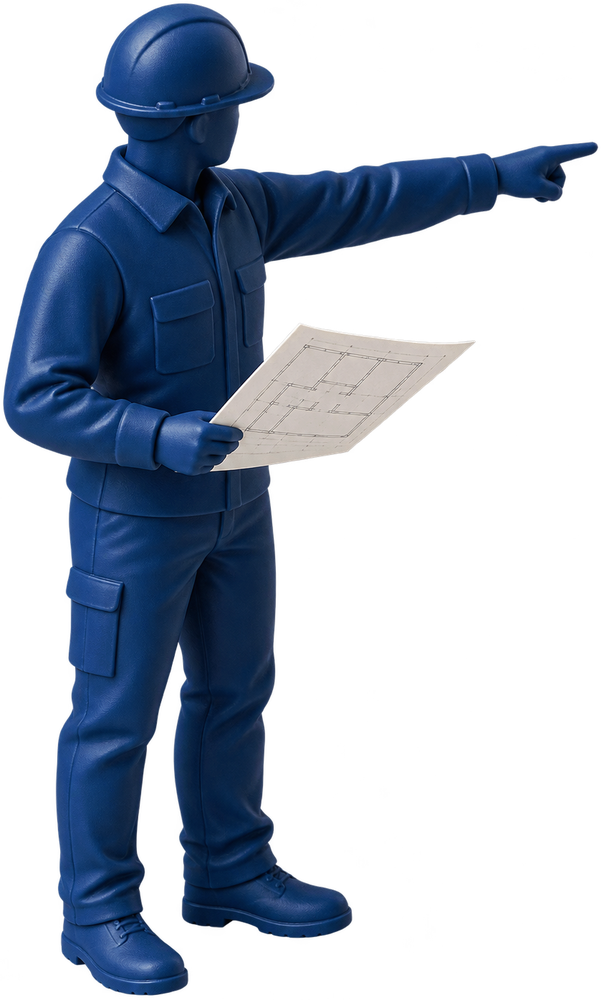
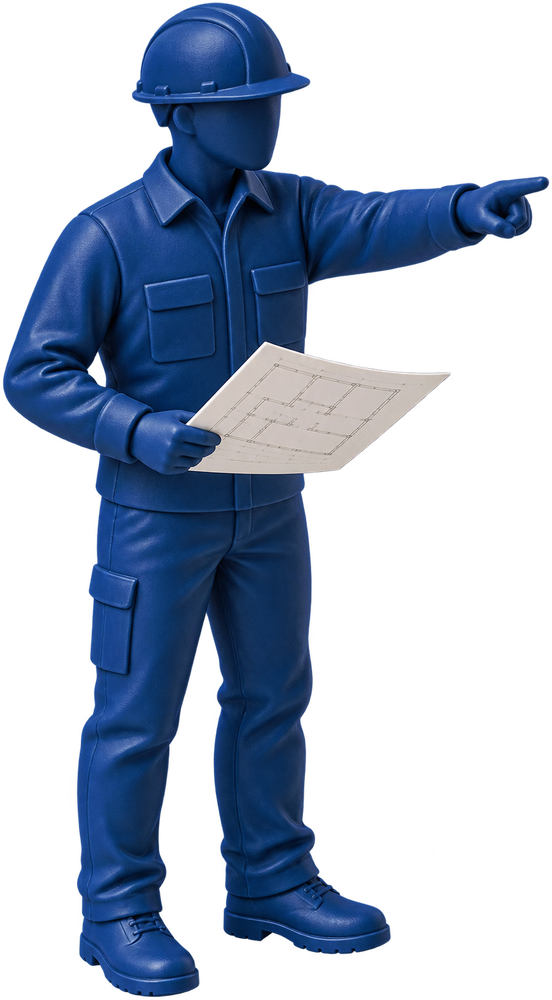
Soften hero arch and turn supervisor toward viewer

diff --git a/css/hex_pc.css b/css/hex_pc.css
@@ -4894,7 +4894,7 @@ html body
   max-width:none;
 }
 .hex-hero-character--family{--hex-sprite-x:33%;--hex-sprite-bottom:23%;--hex-sprite-width:8.8%;}
-.hex-hero-character--supervisor{--hex-sprite-x:32%;--hex-sprite-bottom:45%;--hex-sprite-width:4%;}
+.hex-hero-character--supervisor{--hex-sprite-x:32%;--hex-sprite-bottom:45%;--hex-sprite-width:3.673877%;}
 .hex-hero-character--block{--hex-sprite-x:38.4%;--hex-sprite-bottom:42.7%;--hex-sprite-width:5%;}
 .hex-hero-character--sakan{--hex-sprite-x:61%;--hex-sprite-bottom:40%;--hex-sprite-width:6%;}
 .hex-hero-character--pruning{--hex-sprite-x:50.5%;--hex-sprite-bottom:41.5%;--hex-sprite-width:4%;}

diff --git a/images/top-hero/mannequin-artwork.md b/images/top-hero/mannequin-artwork.md
@@ -80,3 +80,11 @@ Final edit prompt:
 Precise local color edit. Attached navy kneeling blocklayer sprite is the edit target. Change ONLY the light brown WOODEN HANDLE/SHAFT of the hammer to navy blue matching the mannequin's workwear, including the small visible end below the gripping hand. Retain handle shading and form. The dark metallic hammer HEAD stays unchanged. Preserve every other pixel/detail as closely as possible: exact pose, hands, extended empty left palm, right hand grip, body, helmet, navy clothing, camera angle, composition and proportions. No block, no new objects. True transparent background, clean alpha, no ground, no glow. Complete fullbody sprite.
 
 The hero image resolver now maps the six legacy bare PNG filenames to these WebP files. The example HTML also uses WebP character filenames.
+
+## Supervisor face and pointing direction toward viewer
+
+Built-in image_gen edit, then alpha crop and proportional resize to 1000 pixels high. Supervisor CSS width adjusted proportionally to the new aspect ratio to retain its previous rendered height. Other character placement settings were preserved.
+
+Final prompt:
+
+Use case: precise-object-edit. Attached navy miniature construction supervisor is the edit target. Keep original standing body, legs, feet, clothing, helmet, plan sheet held at waist, uniform navy color, elevated camera and matte mannequin style unchanged. Rotate only the head/face and the extended pointing RIGHT arm/hand direction about 45 degrees TOWARD THE VIEWER relative to their current image-right sideways direction. Head should look diagonally forward toward camera-right, showing more of the face/front of helmet rather than the back. The right index fingertip must point in the SAME diagonal forward-camera-right direction, with natural forearm foreshortening; do not merely point upward in the image. Preserve recognizable extended arm pointing gesture and standing stance; body stays in original orientation. Keep mannequin face simple and featureless, do not add human eyes or realistic skin. Left hand continues to hold plans at waist. Complete full body and finger tip, no clipping. True transparent background; no ground, no cast shadow, no halo, no backdrop. Tight minimal transparent margins.
